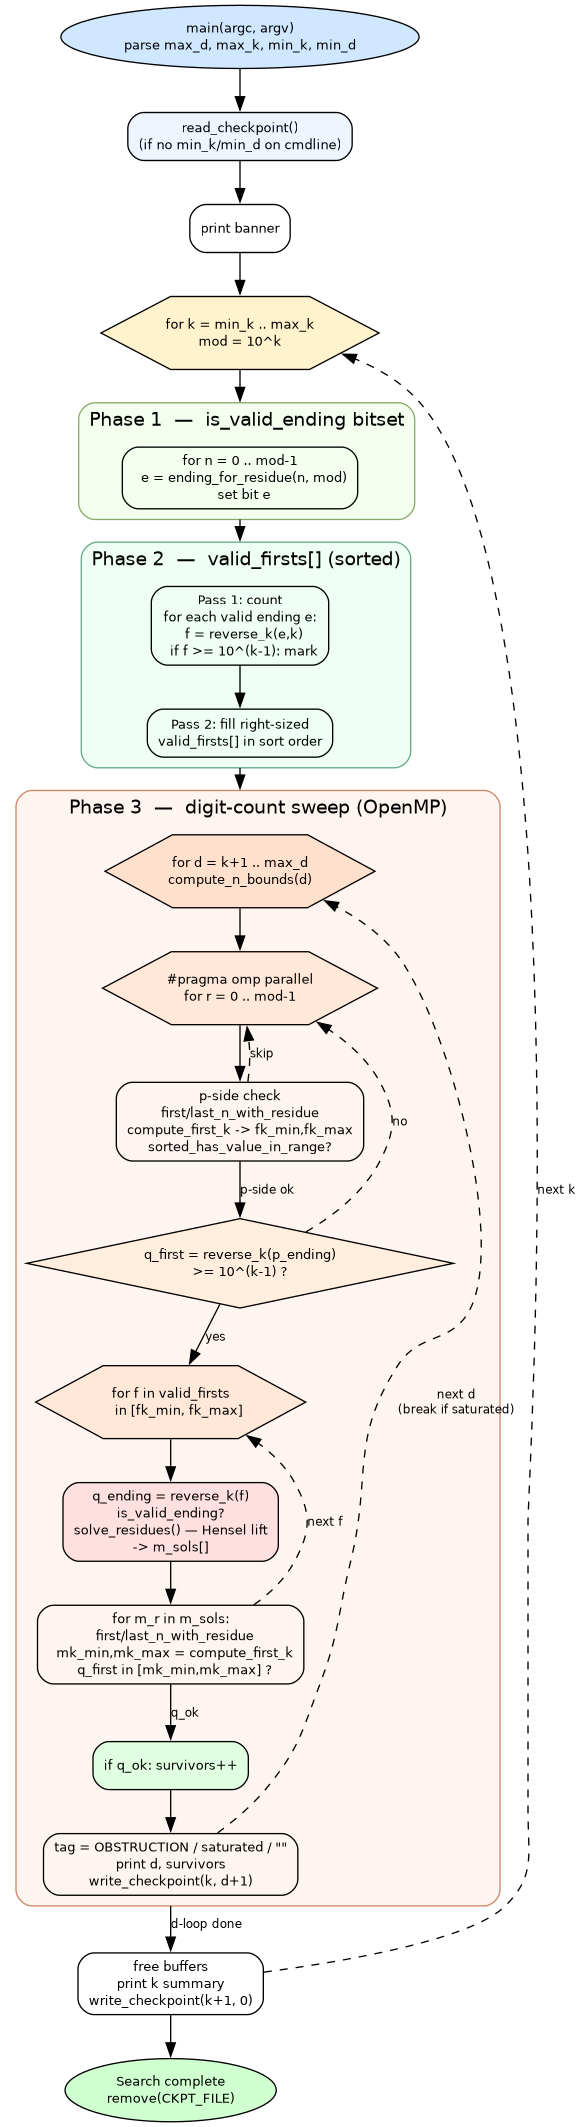
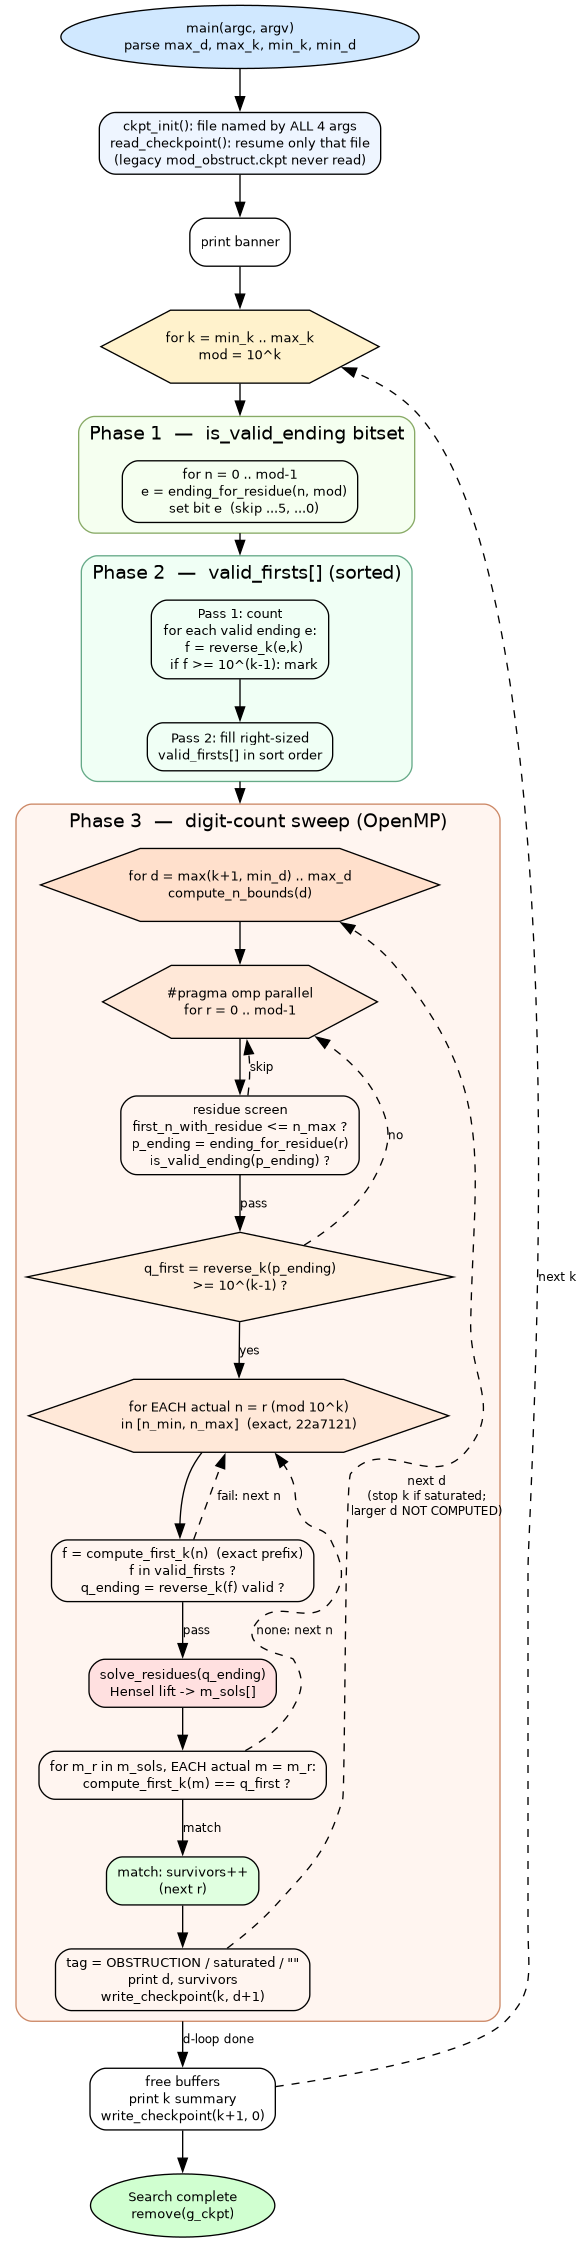
mod_obstruct flowchart: redraw Phase 3 as the exact check; fix checkpoint box
Phase 3 still showed the interval method that 22a7121 (June) replaced:
fk_min/fk_max, a nonexistent last_n_with_residue, a loop over
valid_firsts in an interval.  Now: residue screen, then each actual
n = r (mod 10^k), exact prefix, Hensel, each actual m.  The checkpoint
box showed the shared mod_obstruct.ckpt; now the per-invocation file
(7320ce5).  Phase 1 notes the ...5/...0 skip; the saturation edge says
larger d are NOT COMPUTED.  Every identifier named exists in the source.
The 2026-09-12 'verified' note is re-dated, with what it missed.

diff --git a/docs/modular_obstruction_design.md b/docs/modular_obstruction_design.md
@@ -77,11 +77,23 @@ The diagram is generated from [`mod_obstruct.dot`](mod_obstruct.dot):
 
     dot -Tpng docs/mod_obstruct.dot -o docs/mod_obstruct.png
 
-Verified against the source 2026-09-12: every function and constant it
-names is present in `mod_obstruct.c`, and the argument order it shows
-(`max_d max_k min_k min_d`) matches `main()`. Regenerating reproduces
-the committed image; a ~0.2% pixel difference confined to the Phase 2
-cluster label is graphviz rendering drift, not a content change.
+Verified against the source 2026-11-19 (re-checked after the audit's
+checkpoint fix `7320ce5`, which the 2026-09-12 version predated): every
+function and identifier it names is present in `mod_obstruct.c`, and the
+argument order it shows (`max_d max_k min_k min_d`) matches `main()`.
+Two corrections came out of that re-check:
+
+- **Phase 3 was drawn as the pre-`22a7121` interval method**
+  (`fk_min`/`fk_max`, `last_n_with_residue`, a loop over `valid_firsts`
+  in an interval). The source has enumerated each actual n per residue
+  since June. The 2026-09-12 "verified" note missed it: it checked that
+  names existed, and `first/last_n_with_residue` half-matched. Phase 3
+  now shows the exact per-n and per-m check.
+- **The checkpoint box** now shows the per-invocation file (`ckpt_init`);
+  the old box described the shared `mod_obstruct.ckpt` that let a sanity
+  run's checkpoint hijack a full run.
+
+Checking names is not checking the flow: this re-check read the loop.
 
 
 ### Phase 1: Build the Valid Endings Bitset
